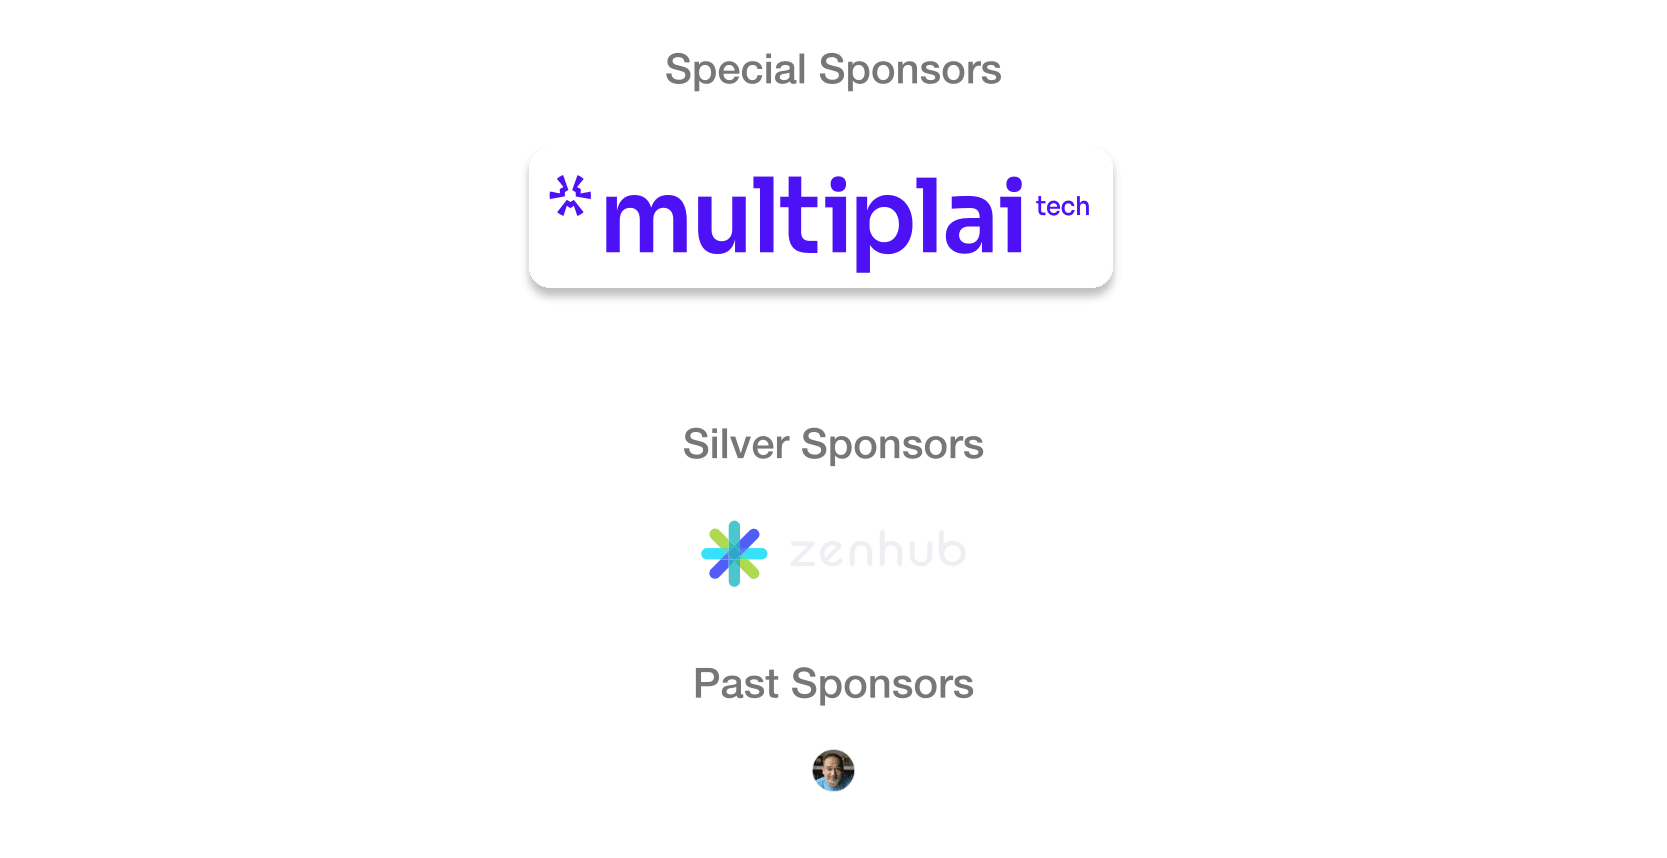
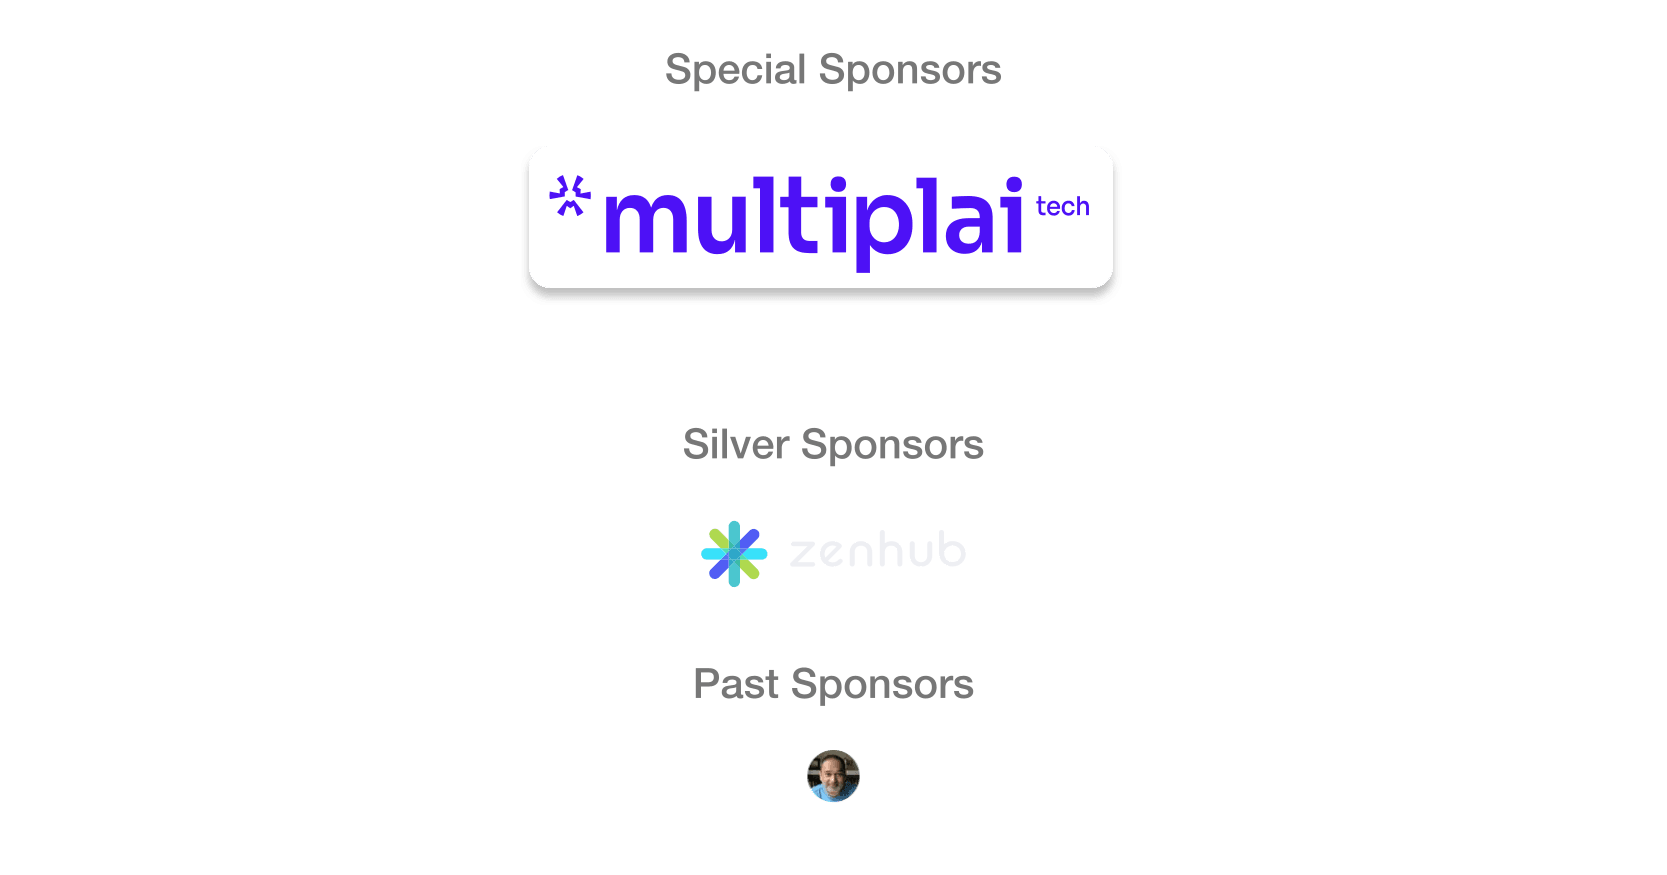
chore: sync

diff --git a/sponsor.config.ts b/sponsor.config.ts
@@ -1,4 +1,4 @@
-import { BadgePreset, defineConfig, presets } from 'sponsorkit'
+import { defineConfig, presets } from 'sponsorkit'
 
 const ZENHUB_LOGO = (width: number, y: number) => `
 <a xlink:href="https://zenhub.com/" class="sponsorkit-link" target="_blank" id="Zenhub">
@@ -7,7 +7,7 @@ const ZENHUB_LOGO = (width: number, y: number) => `
 `
 
 const Multiplai_LOGO = (width: number, y: number) => `
-<a xlink:href="https://https://multiplai.tech//" class="sponsorkit-link" target="_blank" id="GoTeam">
+<a xlink:href="https://multiplai.tech/" class="sponsorkit-link" target="_blank" id="GoTeam">
 <svg  x="${(width - 300) / 2}" y="${y}"  width="300" height="90" viewBox="0 0 300 90" fill="none" xmlns="http://www.w3.org/2000/svg" xmlns:xlink="http://www.w3.org/1999/xlink">
   <g filter="url(#filter0_d_201_22)">
   <path d="M4 10C4 4.47715 8.47715 0 14 0H144H274C279.523 0 284 4.47715 284 10V58C284 63.5228 279.523 68 274 68H14C8.47715 68 4 63.5228 4 58V10Z" fill="white"/>
@@ -33,17 +33,6 @@ const Multiplai_LOGO = (width: number, y: number) => `
 </a>
 `
 
-const past: BadgePreset = {
-  avatar: {
-    size: 20,
-  },
-  boxWidth: 22,
-  boxHeight: 22,
-  container: {
-    sidePadding: 35,
-  },
-}
-
 export default defineConfig({
   github: {
     login: 'phojie',
@@ -53,11 +42,11 @@ export default defineConfig({
     {
       title: 'Past Sponsors',
       monthlyDollars: -1,
-      preset: past,
+      preset: presets.xs,
     },
     {
       title: 'Backers',
-      preset: presets.small,
+      preset: presets.base,
     },
     {
       title: 'Sponsors',
